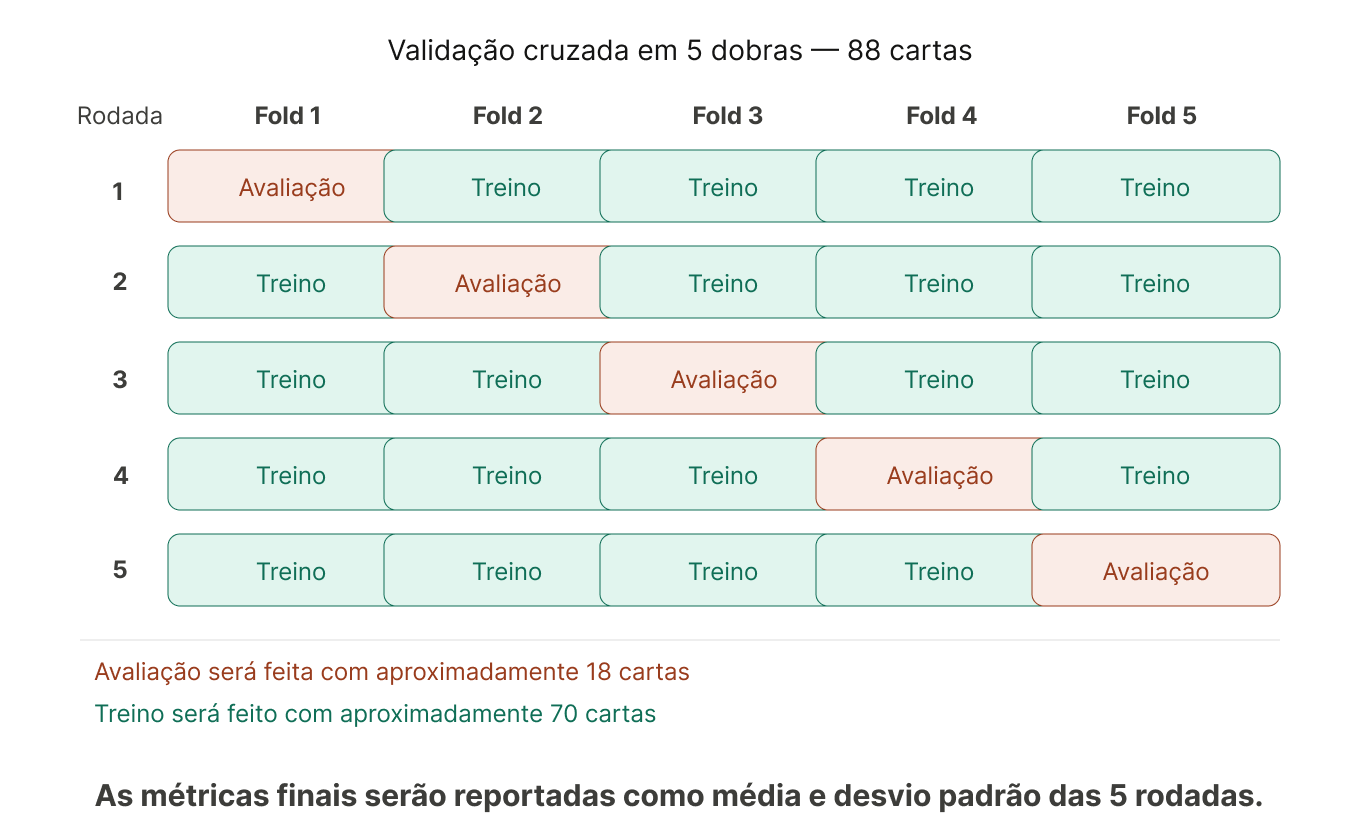
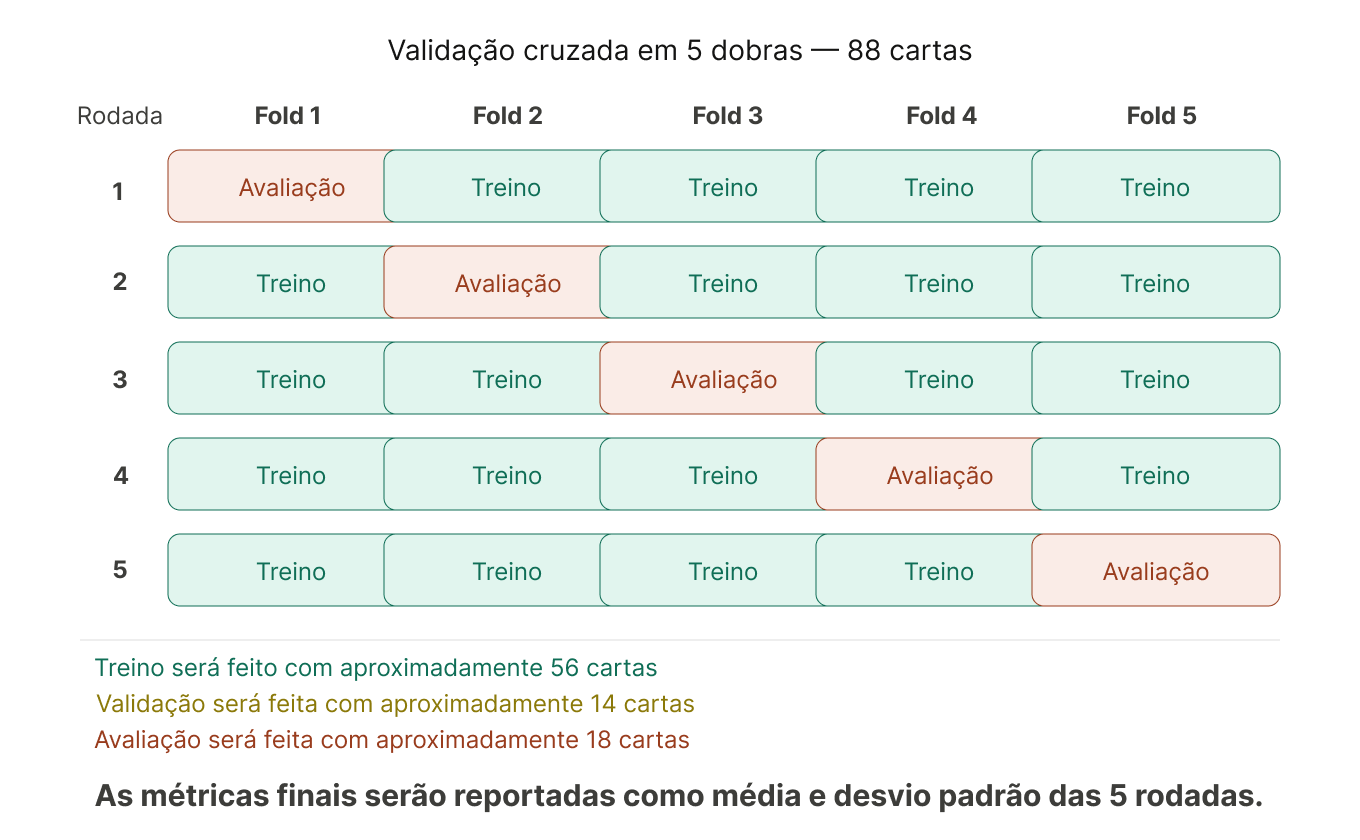
TCC v9

Changed region(s): [[0.0618, 0.7738, 0.525, 0.8976]]

diff --git a/tcc1/tcc.tex b/tcc1/tcc.tex
@@ -138,9 +138,8 @@ geradas pelo autor via filtro emboss seguido de equalização
 adaptativa de histograma (CLAHE) como representação alternativa de 
 entrada. O conjunto de dados é composto por 88 cartas fornecidas por 
 uma empresa brasileira especializada em graduação, totalizando 176 
-imagens por configuração experimental, com anotações em formato de caixas delimitadoras derivadas dos 
-registros de defeitos produzidos por avaliadores especializados 
-em graduação de cartas TCG. A avaliação adotará validação cruzada 
+imagens por configuração experimental, com anotações em formato de caixas delimitadoras derivadas 
+de registros de avaliadores especializados em graduação de cartas TCG. A avaliação adotará validação cruzada 
 estratificada em cinco dobras, com resultados reportados como média e 
 desvio padrão do mAP@0.5, Precisão, Revocação e F1-\textit{score} 
 sobre as cinco rodadas.
@@ -184,21 +183,27 @@ Pokémon TCG. Small Datasets. YOLOv8. Pré-processamento Fotométrico.
 \chapter{Introdução}
 \label{cap:introducao}
 
-O mercado de Trading Card Games (TCG), representado por franquias 
-como Pokémon e Magic: The Gathering, deve movimentar aproximadamente 
-20 bilhões de dólares globalmente em 2026, com projeção de ultrapassar 
-76 bilhões até 2035 \cite{BRI2026}. Nesse mercado, o valor comercial 
-de uma carta está diretamente ligado ao seu estado de conservação 
-física. Para certificar essa condição e conferir segurança às 
-transações, consolidou-se o serviço especializado de graduação de 
-cartas (\textit{card grading}), no qual profissionais avaliam cada 
-exemplar segundo critérios padronizados e atribuem uma nota que 
-sintetiza sua qualidade \cite{Nahar2025}. A PSA (\textit{Professional 
-Sports Authenticator}), pioneira nessa padronização, estabeleceu uma 
-escala de 10 pontos que se tornaria norma do setor \cite{Nahar2025}, 
-enquanto a Beckett Grading Services introduziu, posteriormente, 
-subnotas para atributos individuais da carta, ampliando o detalhamento 
-do processo de avaliação \cite{Shen2025}.
+Trading Card Games (TCG) são jogos de cartas colecionáveis nos quais 
+cada carta possui atributos únicos, como raridade, ilustração, edição, 
+condição física e valor comercial. Além de sua função no contexto do 
+jogo, essas cartas são negociadas entre jogadores e colecionadores, 
+o que contribui para a formação de um mercado voltado à compra, venda, 
+troca e avaliação de exemplares.
+Representado por franquias como Pokémon e Magic: The 
+Gathering, esse mercado deve movimentar aproximadamente 20 bilhões de 
+dólares globalmente em 2026, com projeção de ultrapassar 76 bilhões 
+até 2035 \cite{BRI2026}. Nesse contexto, o valor comercial de uma carta 
+está diretamente ligado ao seu estado de conservação física. Para 
+certificar essa condição e conferir segurança às transações, 
+consolidou-se o serviço especializado de graduação de cartas 
+(\textit{card grading}), no qual profissionais avaliam cada exemplar 
+segundo critérios padronizados e atribuem uma nota que sintetiza sua 
+qualidade \cite{Nahar2025}. A PSA (\textit{Professional Sports 
+Authenticator}), pioneira nessa padronização, estabeleceu uma escala 
+de 10 pontos que se tornaria norma do setor \cite{Nahar2025}, enquanto 
+a Beckett Grading Services introduziu, posteriormente, subnotas para 
+atributos individuais da carta, ampliando o detalhamento do processo 
+de avaliação \cite{Shen2025}.
 
 O processo de graduação, no entanto, ainda é realizado de forma 
 predominantemente manual. Os avaliadores inspecionam cada carta com 
@@ -433,37 +438,84 @@ evidenciar a lacuna que motiva a proposta deste trabalho.
 \section{Metodologia da pesquisa bibliográfica}
 \label{sec:metodologia_pesquisa}
 
-A pesquisa bibliográfica foi realizada por meio da base Google Scholar, IEEE Xplore,
-ScienceDirect, MDPI utilizando combinações de termos em inglês diretamente relacionados aos temas centrais 
-do trabalho. As principais expressões de busca utilizadas foram: \textit{``transfer learning'' 
-AND ``object detection'' AND ``small dataset'' AND ``performance evaluation''}, 
-\textit{``trading card'' OR ``collectible card'' AND ``computer vision''}, 
-\textit{``card grading'' AND ``automated'' OR ``machine learning''}, 
-\textit{``surface defect detection'' AND ``computer vision'' AND ``scratch'' OR ``wear''},
-\textit{``ablation study'' AND ``object detection'' AND ``transfer learning''},
-\textit{``COCO dataset'' AND ``object detection'' AND ``YOLO pretraining''},
-\textit{``emboss filter'' AND ``surface defect'' AND ``deep learning''},
-\textit{``YOLOv8'' AND ``defect detection'' AND ``transfer learning''} e
-\textit{``data augmentation'' AND ``small dataset'' AND ``object detection''}.
+A pesquisa bibliográfica foi realizada por meio das bases Google Scholar, 
+IEEE Xplore, ScienceDirect e MDPI, utilizando combinações de termos em 
+inglês diretamente relacionados aos temas centrais do trabalho. As 
+strings de busca utilizadas, bem como os quantitativos de artigos 
+triados e selecionados em cada etapa, estão apresentados na 
+Tabela~\ref{tab:strings_busca}. A triagem considerou título e resumo 
+como critérios iniciais de relevância, com leitura completa reservada 
+aos trabalhos selecionados para inclusão.
 
-Foram priorizados trabalhos acadêmicos publicados entre 2021 e 2026, em língua inglesa, 
-disponíveis em periódicos ou anais de conferências. A seleção considerou principalmente 
-estudos revisados por pares e \textit{surveys} 
-recentes quando diretamente relacionados ao problema investigado ou necessários para 
-fundamentar conceitos técnicos específicos. Excepcionalmente, foram incluídos dois trabalhos
-anteriores a 2021 por se tratarem de referências seminais: o \textit{dataset} COCO \cite{Lin2014},
-base de pré-treinamento do YOLOv8, e \citeonline{Kohavi1995}, referência fundacional sobre validação
-cruzada em cenários com dados limitados, diretamente aplicável ao contexto deste trabalho.
+\begin{table}[htb]
+\centering
+\caption{Strings de busca utilizadas na pesquisa bibliográfica}
+\label{tab:strings_busca}
+\footnotesize
+\begin{tabular}{p{7.5cm}|c|c|c}
+\toprule
+\textbf{String de busca} & \textbf{Bases} & \textbf{Triados} & \textbf{Selecionados} \\
+\midrule
+\textit{``trading card'' AND ``Pokemon TCG''} 
+    & GS, IEEE, SD, MDPI & 2 & 1 \\
+\midrule
+\textit{``trading card'' OR ``collectible card'' AND ``computer vision''} 
+    & GS, IEEE, SD, MDPI & 6 & 2 \\
+\midrule
+\textit{``card grading'' AND ``automated'' OR ``machine learning''} 
+    & GS, IEEE, SD, MDPI & 6 & 2 \\
+\midrule
+\textit{``surface defect detection'' AND ``computer vision'' AND ``scratch'' OR ``wear''} 
+    & GS, IEEE, SD, MDPI & 9 & 3 \\
+\midrule
+\textit{``ablation study'' AND ``object detection'' AND ``transfer learning''} 
+    & GS, IEEE, SD, MDPI & 5 & 2 \\
+\midrule
+\textit{``dataset COCO'' AND ``object detection'' AND ``YOLO pretraining''} 
+    & GS, IEEE, SD, MDPI & 3 & 1 \\
+\midrule
+\textit{``emboss filter'' AND ``surface defect'' AND ``deep learning''} 
+    & GS, IEEE, SD, MDPI & 5 & 1 \\
+\midrule
+\textit{``CLAHE filter'' AND ``surface defect'' AND ``deep learning''} 
+    & GS, IEEE, SD, MDPI & 8 & 1 \\
+\midrule
+\textit{``YOLOv8'' AND ``defect detection'' AND ``transfer learning''} 
+    & GS, IEEE, SD, MDPI & 11 & 4 \\
+\midrule
+\textit{``cross-validation'' AND ``YOLO'' AND ``defect detection''} 
+    & GS, IEEE, SD, MDPI & 6 & 1 \\
+\midrule
+Fontes não acadêmicas (contextualização de mercado) 
+    & Diversas & — & 1 \\
+\midrule
+\textbf{Total} & & \textbf{61} & \textbf{19} \\
+\bottomrule
+\end{tabular}
+\legend{GS = Google Scholar; IEEE = IEEE Xplore; SD = ScienceDirect; MDPI = Multidisciplinary Digital Publishing Institute.
+Fonte: Elaborado pelo autor (2026).}
+\end{table}
 
-De forma complementar, também foram consultadas fontes não acadêmicas, como páginas 
-institucionais, relatórios setoriais e matérias jornalísticas especializadas, utilizadas 
-exclusivamente para contextualização do mercado, caracterização do domínio de aplicação 
-e descrição de padrões de graduação de cartas. Nesses casos, também foram consideradas 
-fontes em língua portuguesa quando relevantes para o contexto brasileiro.
+Foram priorizados trabalhos acadêmicos publicados entre 2021 e 2026, 
+em língua inglesa, disponíveis em periódicos ou anais de conferências. 
+A seleção considerou principalmente estudos revisados por pares e 
+\textit{surveys} recentes quando diretamente relacionados ao problema 
+investigado ou necessários para fundamentar conceitos técnicos 
+específicos. Excepcionalmente, foram incluídos dois trabalhos anteriores 
+a 2021 por se tratarem de referências seminais: o \textit{dataset} COCO 
+\cite{Lin2014}, base de pré-treinamento do YOLOv8, e 
+\citeonline{Kohavi1995}, referência fundacional sobre validação cruzada 
+em cenários com dados limitados, diretamente aplicável ao contexto 
+deste trabalho.
 
-A relevância de cada trabalho foi avaliada com base em sua aderência ao problema de 
-pesquisa, isto é, a detecção automatizada de defeitos visuais em cenários com baixo 
-volume de dados, com ênfase em aplicações de visão computacional em domínios especializados.
+De forma complementar, também foram consultadas fontes não acadêmicas, 
+como páginas institucionais e relatórios setoriais, utilizadas 
+exclusivamente para contextualização do mercado e caracterização do 
+domínio de aplicação \cite{BRI2026}. A relevância de cada trabalho foi 
+avaliada com base em sua aderência ao problema de pesquisa, isto é, a 
+detecção automatizada de defeitos visuais em cenários com baixo volume 
+de dados, com ênfase em aplicações de visão computacional em domínios 
+especializados.
 
 \section{Referencial teórico}
 \label{sec:referencial}
@@ -849,6 +901,12 @@ de dados desempenha um papel crítico na prevenção de
 conjunto de treinamento, essa estratégia reduz a dependência
 do modelo em relação a padrões específicos dos exemplos
 disponíveis, favorecendo a generalização \cite{Chen2021}.
+No contexto específico de detecção de defeitos com YOLOv8, 
+\citeonline{Chen2024NHD} propõem uma técnica de aumento de 
+dados voltada para objetos pequenos, demonstrando que 
+estratégias de augmentation direcionadas ao tipo de defeito 
+presente no dataset produzem ganhos mais consistentes do que 
+transformações genéricas aplicadas indiscriminadamente.
 No contexto do presente trabalho, técnicas de aumento de
 dados serão incorporadas ao pipeline experimental como
 uma das estratégias avaliadas no estudo de ablação,
@@ -869,24 +927,31 @@ de gradiente são empregadas como etapa de pré-processamento,
 amplificando variações locais de textura, relevo e contorno que 
 podem ser pouco evidentes na imagem RGB convencional \cite{Chen2021}.
 
-No contexto da inspeção visual automatizada, filtros de gradiente 
-direcional têm sido aplicados como etapa de pré-processamento para 
-realce de defeitos em superfícies industriais. \citeonline{Sawada2024} 
-aplicam filtro \textit{emboss} para extração de defeitos em 
-superfícies pintadas, demonstrando que técnicas de gradiente 
-direcional contribuem para melhorar a acurácia de extração em 
-relação à abordagem sem pré-processamento. No presente trabalho, 
-as imagens fotométricas derivadas serão geradas pela aplicação 
-sequencial do filtro emboss e do \textit{Contrast Limited Adaptive 
-Histogram Equalization} (CLAHE) sobre as imagens RGB originais das 
-cartas, utilizando a biblioteca OpenCV. O filtro emboss produz uma 
-representação em tons de cinza que realça variações de relevo e 
-textura superficial, enquanto o CLAHE amplifica os detalhes finos 
-do relevo resultante sem saturar regiões homogêneas \cite{Jiang2023}. 
-Essa representação será incorporada ao pipeline experimental como 
-entrada alternativa, permitindo investigar se o realce de gradiente 
-direcional de superfície contribui para a detecção de defeitos em 
-cartas Pokémon TCG em cenário com baixo volume de dados.
+No contexto da inspeção visual automatizada, filtros de gradiente
+direcional têm sido aplicados como etapa de pré-processamento para
+realce de defeitos em superfícies industriais. \citeonline{Sawada2024}
+aplicam filtro \textit{emboss} para extração de defeitos em
+superfícies pintadas, demonstrando que técnicas de gradiente
+direcional contribuem para melhorar a acurácia de extração em
+relação à abordagem sem pré-processamento. De forma complementar,
+\citeonline{Jiang2023} aplicam \textit{Contrast Limited Adaptive
+Histogram Equalization} (CLAHE) como etapa de pré-processamento
+anterior à detecção com YOLO, evidenciando que a equalização
+adaptativa de histograma pode amplificar detalhes finos relevantes
+para detectores de objetos. No presente trabalho, as imagens
+fotométricas derivadas serão geradas pela aplicação sequencial
+dessas duas técnicas, isto é, filtro \textit{emboss} seguido de CLAHE,
+sobre as imagens RGB originais das cartas, utilizando a biblioteca
+OpenCV. O filtro \textit{emboss} produz uma representação em tons de
+cinza que realça variações de relevo e textura superficial, enquanto
+o CLAHE amplifica os detalhes finos do relevo resultante sem saturar
+regiões homogêneas. Até onde a revisão bibliográfica identificou,
+essa combinação sequencial como representação alternativa de entrada
+para um detector YOLOv8 não foi investigada na literatura de inspeção
+de cartas colecionáveis. O estudo de ablação avaliará empiricamente
+se essa representação contribui para o desempenho do detector no
+cenário de baixo volume de dados considerado neste trabalho.
+
 
 
 \subsection{Estudo de Ablação}
@@ -904,20 +969,30 @@ ou modificando elementos de forma controlada. Dessa forma, torna-se possível
 identificar quais componentes efetivamente contribuem para a melhoria do
 desempenho e quais apresentam impacto reduzido ou dependente do contexto.
 
-Em modelos de detecção de objetos baseados em YOLO, esse tipo de análise é
-especialmente relevante para avaliar estratégias de treinamento e adaptação
-de modelos pré-treinados. \citeonline{Dobrzycki2025} investigaram diferentes
-configurações de \textit{transfer learning} em arquiteturas 
-YOLOv8 e YOLOv10, comparando treinamento do zero, 
-\textit{fine-tuning} completo e congelamento parcial de 
-camadas (\textit{layer freezing}). Os autores demonstraram 
-que não há uma estratégia universalmente superior, uma vez 
-que o desempenho depende das características do conjunto de 
-dados, do grau de desbalanceamento, da complexidade visual e 
-dos recursos computacionais disponíveis. No presente trabalho, 
-o fine-tuning será aplicado sem congelamento de camadas, 
-concentrando a análise comparativa nas estratégias de 
-preparação dos dados e pré-processamento.
+Em modelos de detecção de objetos baseados em YOLO, esse tipo 
+de análise é especialmente relevante para avaliar estratégias 
+de treinamento e adaptação de modelos pré-treinados. 
+\citeonline{Liu2022} conduziram um estudo de ablação 
+explícito em uma arquitetura YOLOv5 modificada para detecção 
+de objetos pequenos em imagens de UAV com dados limitados, 
+avaliando a contribuição individual de cada componente 
+proposto e demonstrando que a ablação permite identificar 
+quais elementos efetivamente melhoram o desempenho do detector. 
+\citeonline{Dobrzycki2025} investigaram sistematicamente 
+diferentes configurações de \textit{transfer learning} em 
+arquiteturas YOLOv8 e YOLOv10, comparando treinamento do 
+zero, \textit{fine-tuning} completo e congelamento parcial 
+de camadas, demonstrando que não há estratégia universalmente 
+superior e que o desempenho depende das características do 
+conjunto de dados. \citeonline{Chen2024NHD} conduzem ablação 
+explícita sobre três componentes independentes do detector, 
+avaliando sua contribuição individual e combinada sobre o 
+mesmo conjunto de dados, ilustrando como o desenho fatorial 
+permite atribuir ganhos de desempenho a componentes 
+específicos do pipeline. No presente trabalho, o 
+\textit{fine-tuning} será aplicado sem congelamento de 
+camadas, concentrando a análise comparativa nas estratégias 
+de preparação dos dados e pré-processamento.
 
 % ---------------------------------------------------------------
 \subsection{Validação Cruzada}
@@ -949,6 +1024,16 @@ o tamanho do conjunto de avaliação, com cerca de 17 cartas por fold,
 com o volume disponível para treinamento em cada rodada, evitando que
 conjuntos de avaliação excessivamente pequenos introduzam instabilidade
 nas estimativas \cite{Kohavi1995}.
+
+Em cada rodada, o bloco de treinamento será subdividido internamente
+em um conjunto de treino efetivo e um \textit{validation set},
+constituído por aproximadamente 20\% das cartas do bloco de
+treinamento. Esse subconjunto interno é utilizado exclusivamente
+para monitoramento do critério de parada antecipada
+(\textit{early stopping}), sem participar da atualização dos pesos
+do modelo. O fold de avaliação permanece completamente isolado durante
+todo o treinamento, sendo utilizado apenas para reportar o desempenho
+final de cada rodada.
 
 % ---------------------------------------------------------------
 \subsection{Métricas de Avaliação}
@@ -1191,6 +1276,11 @@ carta sempre no mesmo fold \cite{Kohavi1995}. Em cada rodada, quatro folds
 (~70 cartas, ~140 imagens) são utilizados para treinamento e um fold 
 (~18 cartas, ~36 imagens) para avaliação, resultando em uma proporção 
 aproximada de 80\% para treinamento e 20\% para avaliação por rodada.
+Do bloco de treinamento de cada rodada, aproximadamente 20\% das cartas 
+(~14 cartas, ~28 imagens) são separadas aleatoriamente como 
+\textit{validation set} interno, utilizado exclusivamente para 
+monitoramento do \textit{early stopping}, de modo que o treino efetivo 
+ocorre sobre as ~56 cartas restantes (~112 imagens).
 Seguindo a prática de \citeonline{Wang2022}, que executaram experimentos 
 independentes sobre múltiplos grupos e reportaram a média para reduzir a 
 influência de fatores aleatórios, os resultados serão reportados como média
@@ -1200,7 +1290,14 @@ mantido fixo em todas as configurações experimentais, garantindo comparabilida
 \begin{figure}[H]
     \centering
     \includegraphics[width=1.00\textwidth]{imagens/kfold.png}
-    \caption{Esquema da validação cruzada estratificada em cinco dobras aplicada ao conjunto de 88 cartas. Em cada rodada, quatro folds são utilizados para treinamento e um fold é reservado para avaliação, mantendo frente e verso da mesma carta no mesmo fold.}
+    \caption{Esquema da validação cruzada estratificada em cinco dobras 
+    aplicada ao conjunto de 88 cartas. Em cada rodada, quatro folds são 
+    utilizados para treinamento e um fold é reservado para avaliação, 
+    mantendo frente e verso da mesma carta no mesmo fold. Do bloco de 
+    treinamento de cada rodada, aproximadamente 20\% das cartas (~14) são 
+    separadas aleatoriamente como \textit{validation set} para monitoramento 
+    do \textit{early stopping}, permanecendo o fold de avaliação completamente 
+    isolado durante o treinamento.}
     \fonte{Elaborado pelo autor (2026).}
     \label{fig:kfold_cross_validation}
 \end{figure}
@@ -1306,11 +1403,16 @@ o uso de aumento de dados, e não a variações no processo de otimização
 \cite{Dobrzycki2025}.
 
 O critério de parada antecipada será configurado para monitorar o 
-mAP@0.5 no fold de avaliação de cada rodada da validação cruzada, 
-com paciência inicial de 50 épocas, valor compatível com o tamanho 
-reduzido do conjunto de dados e alinhado aos padrões da biblioteca 
-Ultralytics para YOLOv8 \cite{Dobrzycki2025}. O valor final da 
-paciência será ajustado nos testes preliminares, sendo mantido fixo 
+mAP@0.5 em um subconjunto de validação interno (\textit{validation 
+set}), constituído por aproximadamente 20\% das cartas do bloco de 
+treinamento de cada rodada, correspondendo a cerca de 14 cartas (28 
+imagens). Esse subconjunto é distinto do fold de avaliação, que 
+permanece completamente isolado durante o treinamento e é utilizado 
+exclusivamente para reportar o desempenho final de cada configuração 
+experimental. A paciência inicial será de 50 épocas, valor compatível 
+com o tamanho reduzido do conjunto de dados e alinhado aos padrões da 
+biblioteca Ultralytics para YOLOv8 \cite{Dobrzycki2025}. O valor final 
+da paciência será ajustado nos testes preliminares, sendo mantido fixo 
 em todas as quatro configurações experimentais para garantir 
 comparabilidade entre os resultados.
 
@@ -1357,9 +1459,10 @@ a base comum de treinamento sobre a qual serão avaliados o aumento de dados
 e o uso de imagens fotométricas derivadas.
 
 O aumento de dados será utilizado para ampliar artificialmente a variabilidade 
-do conjunto de treinamento. Serão consideradas transformações compatíveis com 
-o problema, como ajustes geométricos e fotométricos, desde que preservem a 
-interpretação visual dos defeitos e não distorçam suas características essenciais.
+do conjunto de treinamento. Para a representação RGB, serão aplicadas transformações
+geométricas (flip horizontal, rotação de até ±10°) e fotométricas (variação de brilho e saturação).
+Para a representação fotométrica, serão utilizadas apenas transformações geométricas, uma vez que a
+imagem embossada já passou por normalização via CLAHE, tornando inconsistente a aplicação de variações artificiais de brilho ou contraste.
 
 Já o uso das imagens fotométricas derivadas será avaliado como uma 
 representação alternativa de entrada, com o objetivo de verificar se 